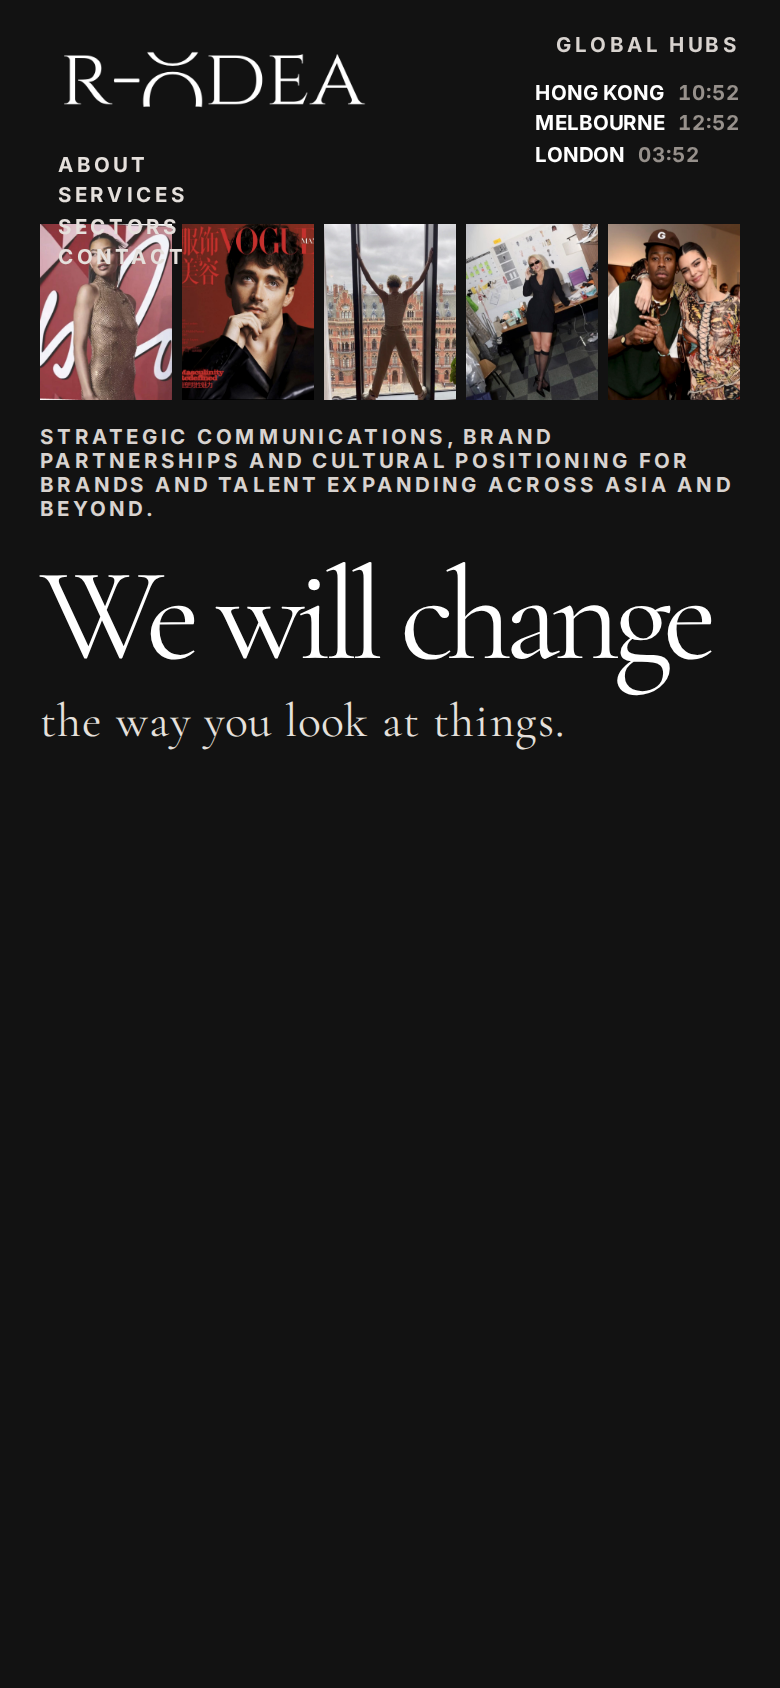
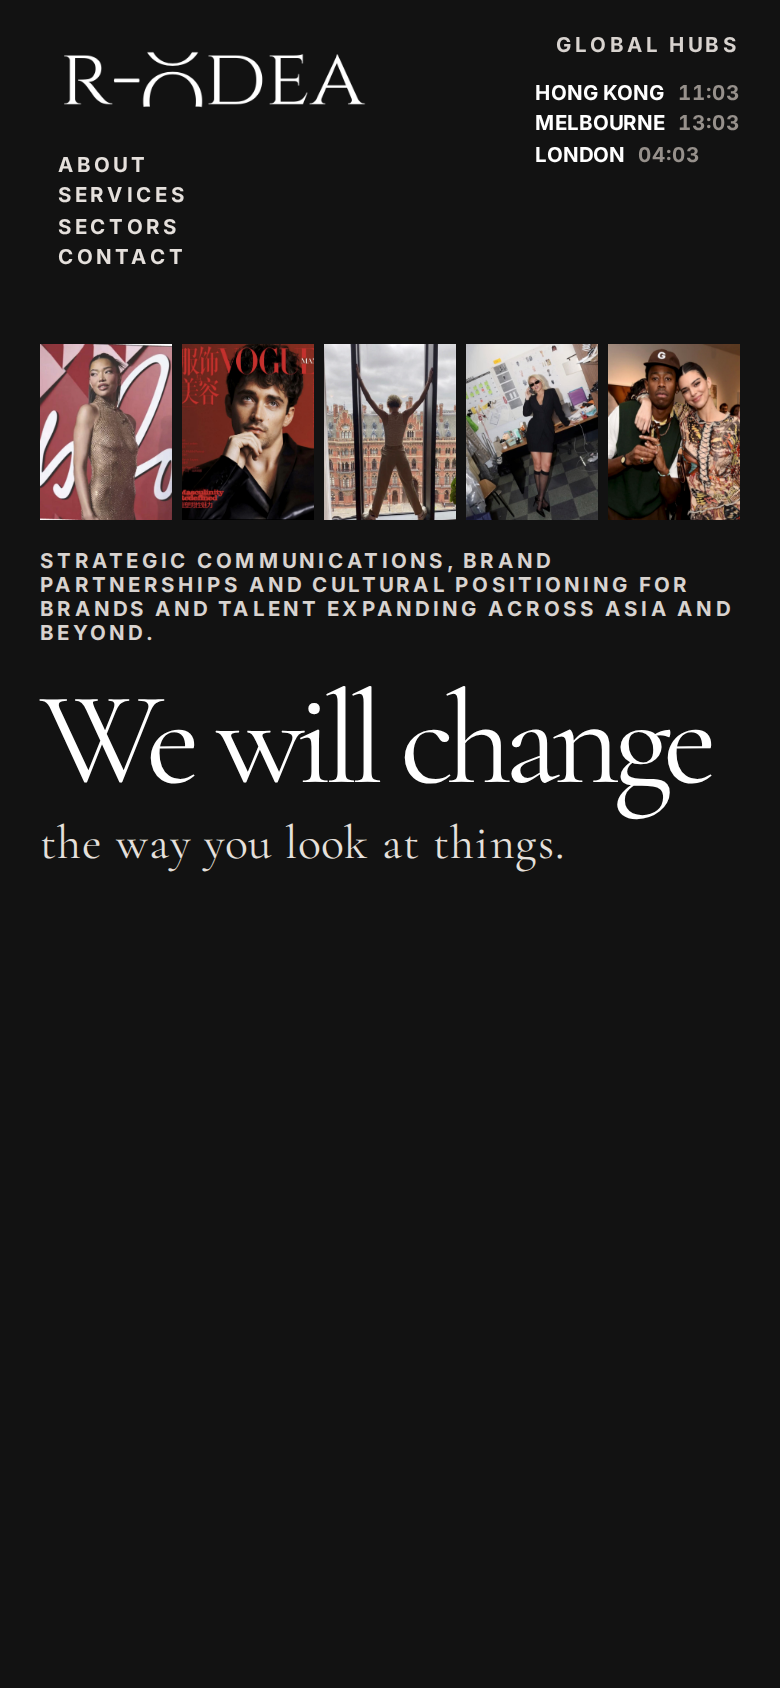
Fix iPhone image strip overlapping navigation text
- Increase top hero padding on mobile so images sit below the fixed header
- Add spacing between image strip and strategic line on small screens

diff --git a/styles.css b/styles.css
@@ -707,6 +707,19 @@ body.intro-ready .intro-enter {
     padding-top: 7rem;
   }
 
+  .hero.image-option-top {
+    padding-top: clamp(10.75rem, 36vw, 12.5rem);
+  }
+
+  .hero-positioning {
+    gap: 0.85rem;
+    width: 100%;
+  }
+
+  .image-strip-top {
+    margin-bottom: 0;
+  }
+
   .hero-layout {
     min-height: auto;
   }